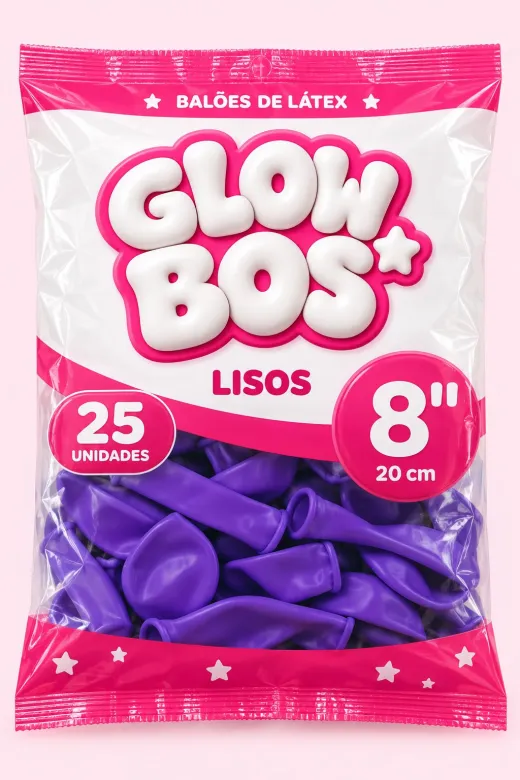
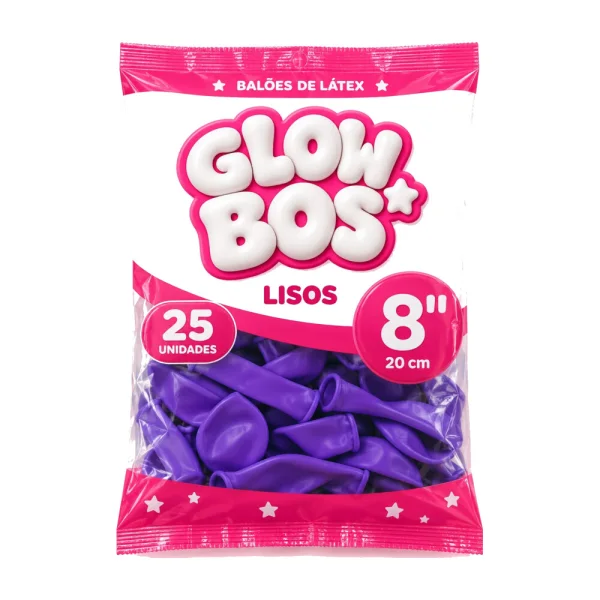
Pacotes fechados: embalagem em fundo branco chapado com respiro; 4 pacotes de tamanho no padrão da embalagem; vitrine quadrada

diff --git a/glowbos/tema/glowbos/style.css b/glowbos/tema/glowbos/style.css
@@ -2,7 +2,7 @@
 Theme Name: Glowbos
 Author: Kompila
 Description: Tema da loja Glowbos. A página inicial é a home aprovada (home.html); as páginas da loja usam o mesmo cabeçalho e rodapé.
-Version: 1.0.13
+Version: 1.0.14
 Text Domain: glowbos
 */
 :root{--forte:#FF1F7A;--bebe:#FFF2F6;--vinho:#1d1a1f;--vinho2:#5f5a63}
@@ -161,3 +161,6 @@ a{color:inherit}
 /* vitrine em pé (4:5): as fotos de produto são verticais; a embalagem fica grande e o arco não perde o topo */
 .woocommerce ul.products li.product a img{aspect-ratio:4/5!important}
 .woocommerce ul.products li.product.product_cat-pacotes-fechados a img{object-fit:cover!important;object-position:center!important}
+/* vitrine quadrada de novo (sem esticar); embalagem já vem em quadrado branco com respiro */
+.woocommerce ul.products li.product a img{aspect-ratio:1!important}
+.woocommerce ul.products li.product.product_cat-pacotes-fechados a img{object-fit:contain!important}

diff --git a/glowbos/tema/glowbos/app.css b/glowbos/tema/glowbos/app.css
@@ -85,3 +85,4 @@
 .gb-q img.gb-perola{filter:drop-shadow(0 0 4px rgba(255,214,234,.9)) brightness(1.03)}
 .gb-qcores{grid-template-columns:repeat(auto-fill,minmax(190px,1fr))}
 .gb-prev-emb{background:#FDEAF1}.gb-prev-emb img{width:100%!important;height:100%!important;object-fit:contain;padding:4%}
+.gb-prev-emb{background:#fff!important}

diff --git a/glowbos/tema/glowbos/functions.php b/glowbos/tema/glowbos/functions.php
@@ -459,7 +459,7 @@ function glowbos_app_config( $pid ) {
 }
 add_action( 'wp_enqueue_scripts', function () {
 	if ( function_exists( 'is_product' ) && is_product() && glowbos_app_config( get_queried_object_id() ) ) {
-		$v = wp_get_theme()->get( 'Version' ) . '.13';
+		$v = wp_get_theme()->get( 'Version' ) . '.14';
 		wp_enqueue_style( 'glowbos-app', get_template_directory_uri() . '/app.css', array( 'glowbos' ), $v );
 		wp_enqueue_script( 'glowbos-app', get_template_directory_uri() . '/app.js', array(), $v, true );
 	}
